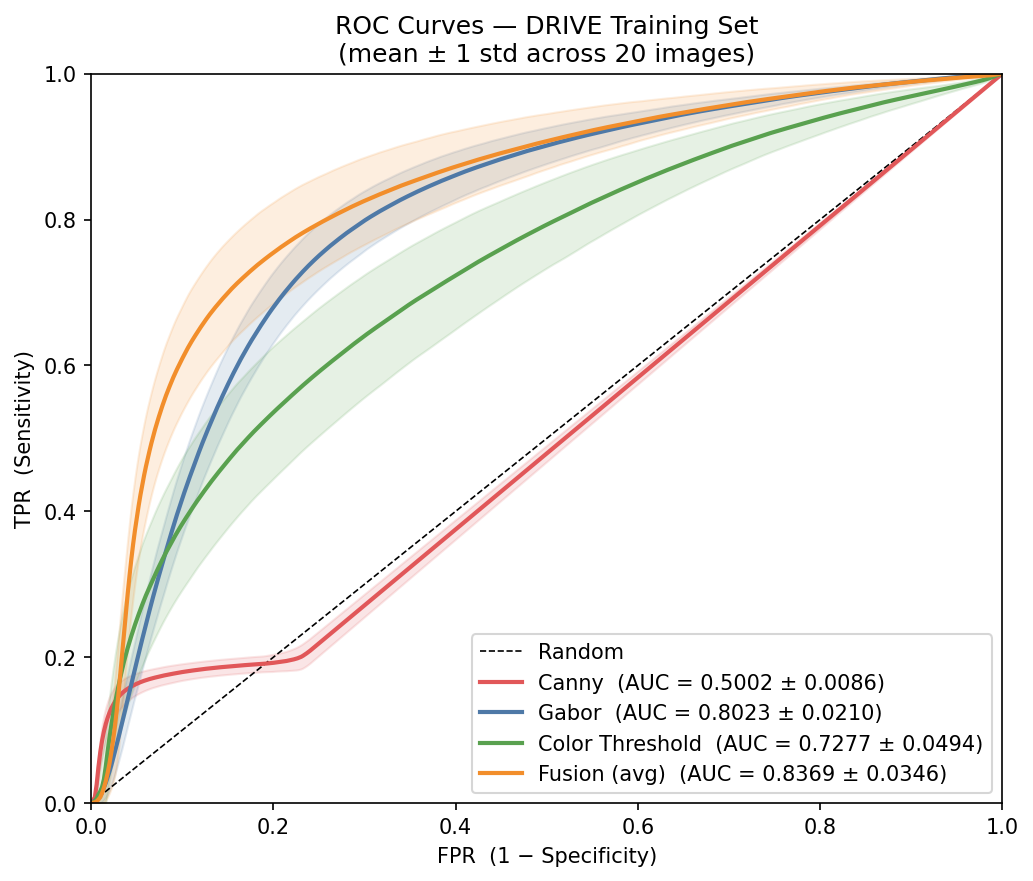
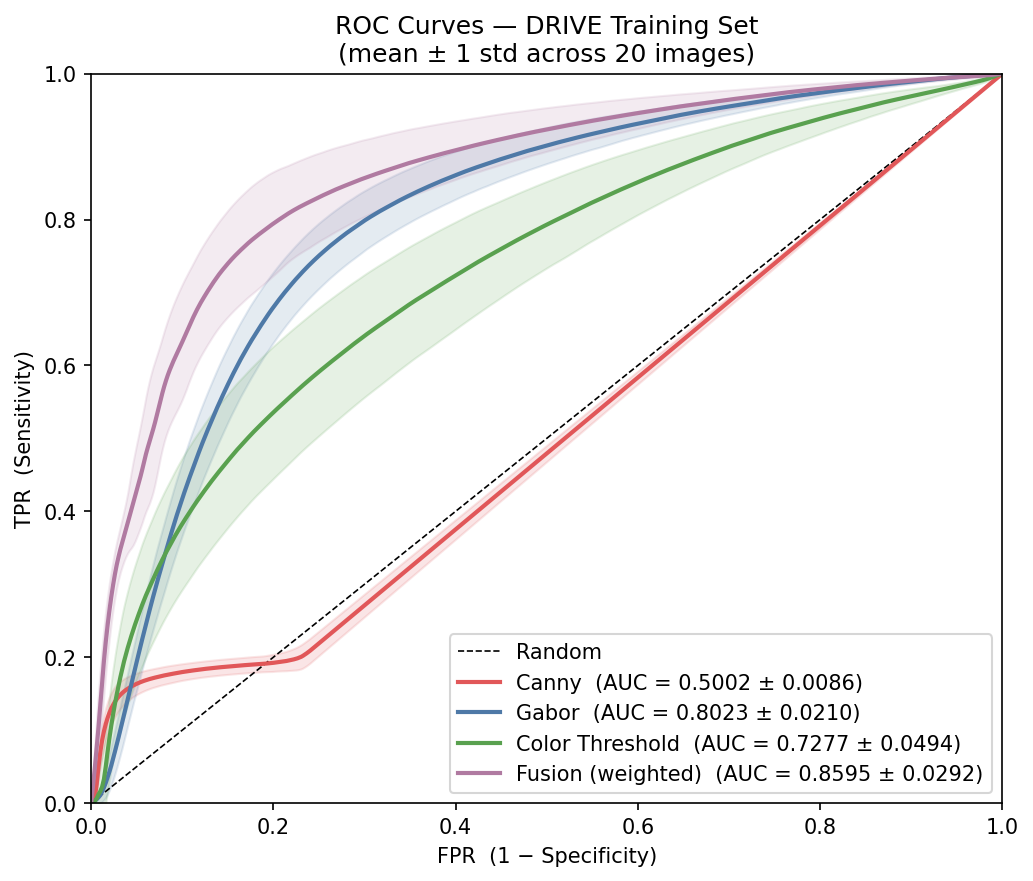
Add AUC-weighted fusion; Update plot_roc.py to show Fusion (weighted) instead of Fusion (avg); Add fusion_weighted to tune_threshold.py

Changed region(s): [[0.062, 0.0613, 0.9603, 0.9194], [0.4337, 0.7049, 0.9603, 0.8888]]

diff --git a/src/fusion.py b/src/fusion.py
@@ -70,3 +70,28 @@ def min_fusion_segment(img, enhanced, threshold=0.5):
     fused_map = np.min(np.stack(response_maps, axis=0), axis=0)
     binary_mask = (fused_map >= threshold).astype(np.uint8)
     return binary_mask, fused_map
+
+
+# AUC-derived weights from per-image mean AUC on DRIVE training set:
+# Canny=0.5002, Gabor=0.8023, Color=0.7277  (sum=2.0302)
+AUC_WEIGHTS = np.array([0.5002, 0.8023, 0.7277])
+AUC_WEIGHTS = AUC_WEIGHTS / AUC_WEIGHTS.sum()
+
+
+def weighted_fusion_segment(img, enhanced, threshold=0.273):
+    """
+    Fuse Canny, Gabor, and Color Threshold weighted by their per-image mean AUC.
+    Higher-AUC methods contribute more to the fused response map.
+
+    Inputs:
+        img:      (H, W, 3) original RGB image
+        enhanced: (H, W) CLAHE-enhanced green channel
+        threshold: float in [0, 1] applied to the weighted map
+    Outputs:
+        binary_mask: (H, W) uint8
+        fused_map:   (H, W) float in [0, 1]
+    """
+    response_maps = _get_response_maps(img, enhanced)
+    fused_map = sum(w * r for w, r in zip(AUC_WEIGHTS, response_maps))
+    binary_mask = (fused_map >= threshold).astype(np.uint8)
+    return binary_mask, fused_map

diff --git a/src/plot_roc.py b/src/plot_roc.py
@@ -22,7 +22,7 @@ from preprocessing import preprocess
 from canny import canny
 from gabor import gabor_segment
 from color_threshold import color_threshold_segment
-from fusion import average_fusion_segment
+from fusion import weighted_fusion_segment
 from evaluate import roc_curve, auc
 
 IMAGE_DIR = "data/DRIVE/training/images"
@@ -57,13 +57,13 @@ def get_response_maps(img, enhanced):
     _, L_enhanced = color_threshold_segment(img)
     color_response = L_enhanced.astype(np.float32) / 255.0
 
-    _, fusion_response = average_fusion_segment(img, enhanced)
+    _, fusion_weighted_response = weighted_fusion_segment(img, enhanced)
 
     return [
-        (canny_response,  "Canny"),
-        (gabor_response,  "Gabor"),
-        (color_response,  "Color Threshold"),
-        (fusion_response, "Fusion (avg)"),
+        (canny_response,            "Canny"),
+        (gabor_response,            "Gabor"),
+        (color_response,            "Color Threshold"),
+        (fusion_weighted_response,  "Fusion (weighted)"),
     ]
 
 
@@ -87,7 +87,7 @@ def main():
         return
 
     # Accumulate per-image (tpr, fpr, auc) for each method
-    method_names = ["Canny", "Gabor", "Color Threshold", "Fusion (avg)"]
+    method_names = ["Canny", "Gabor", "Color Threshold", "Fusion (weighted)"]
     per_image_tprs = {m: [] for m in method_names}
     per_image_fprs = {m: [] for m in method_names}
     per_image_aucs = {m: [] for m in method_names}
@@ -114,7 +114,7 @@ def main():
 
     os.makedirs(OUT_DIR, exist_ok=True)
 
-    colors = {"Canny": "#e15759", "Gabor": "#4e79a7", "Color Threshold": "#59a14f", "Fusion (avg)": "#f28e2b"}
+    colors = {"Canny": "#e15759", "Gabor": "#4e79a7", "Color Threshold": "#59a14f", "Fusion (weighted)": "#b07aa1"}
 
     fig, ax = plt.subplots(figsize=(7, 6))
     ax.plot([0, 1], [0, 1], "k--", linewidth=0.8, label="Random")

diff --git a/src/tune_threshold.py b/src/tune_threshold.py
@@ -25,7 +25,7 @@ from scipy.ndimage import binary_fill_holes
 sys.path.insert(0, os.path.dirname(__file__))
 
 from preprocessing import preprocess
-from fusion import average_fusion_segment, max_fusion_segment, min_fusion_segment
+from fusion import average_fusion_segment, max_fusion_segment, min_fusion_segment, weighted_fusion_segment
 from evaluate import compute_metrics
 
 IMAGE_DIR = "data/DRIVE/training/images"
@@ -35,9 +35,10 @@ OUT_DIR   = "results/figures"
 N_THRESHOLDS = 100
 
 FUSION_METHODS = {
-    "fusion_avg": average_fusion_segment,
-    "fusion_max": max_fusion_segment,
-    "fusion_min": min_fusion_segment,
+    "fusion_avg":      average_fusion_segment,
+    "fusion_max":      max_fusion_segment,
+    "fusion_min":      min_fusion_segment,
+    "fusion_weighted": weighted_fusion_segment,
 }
 
 